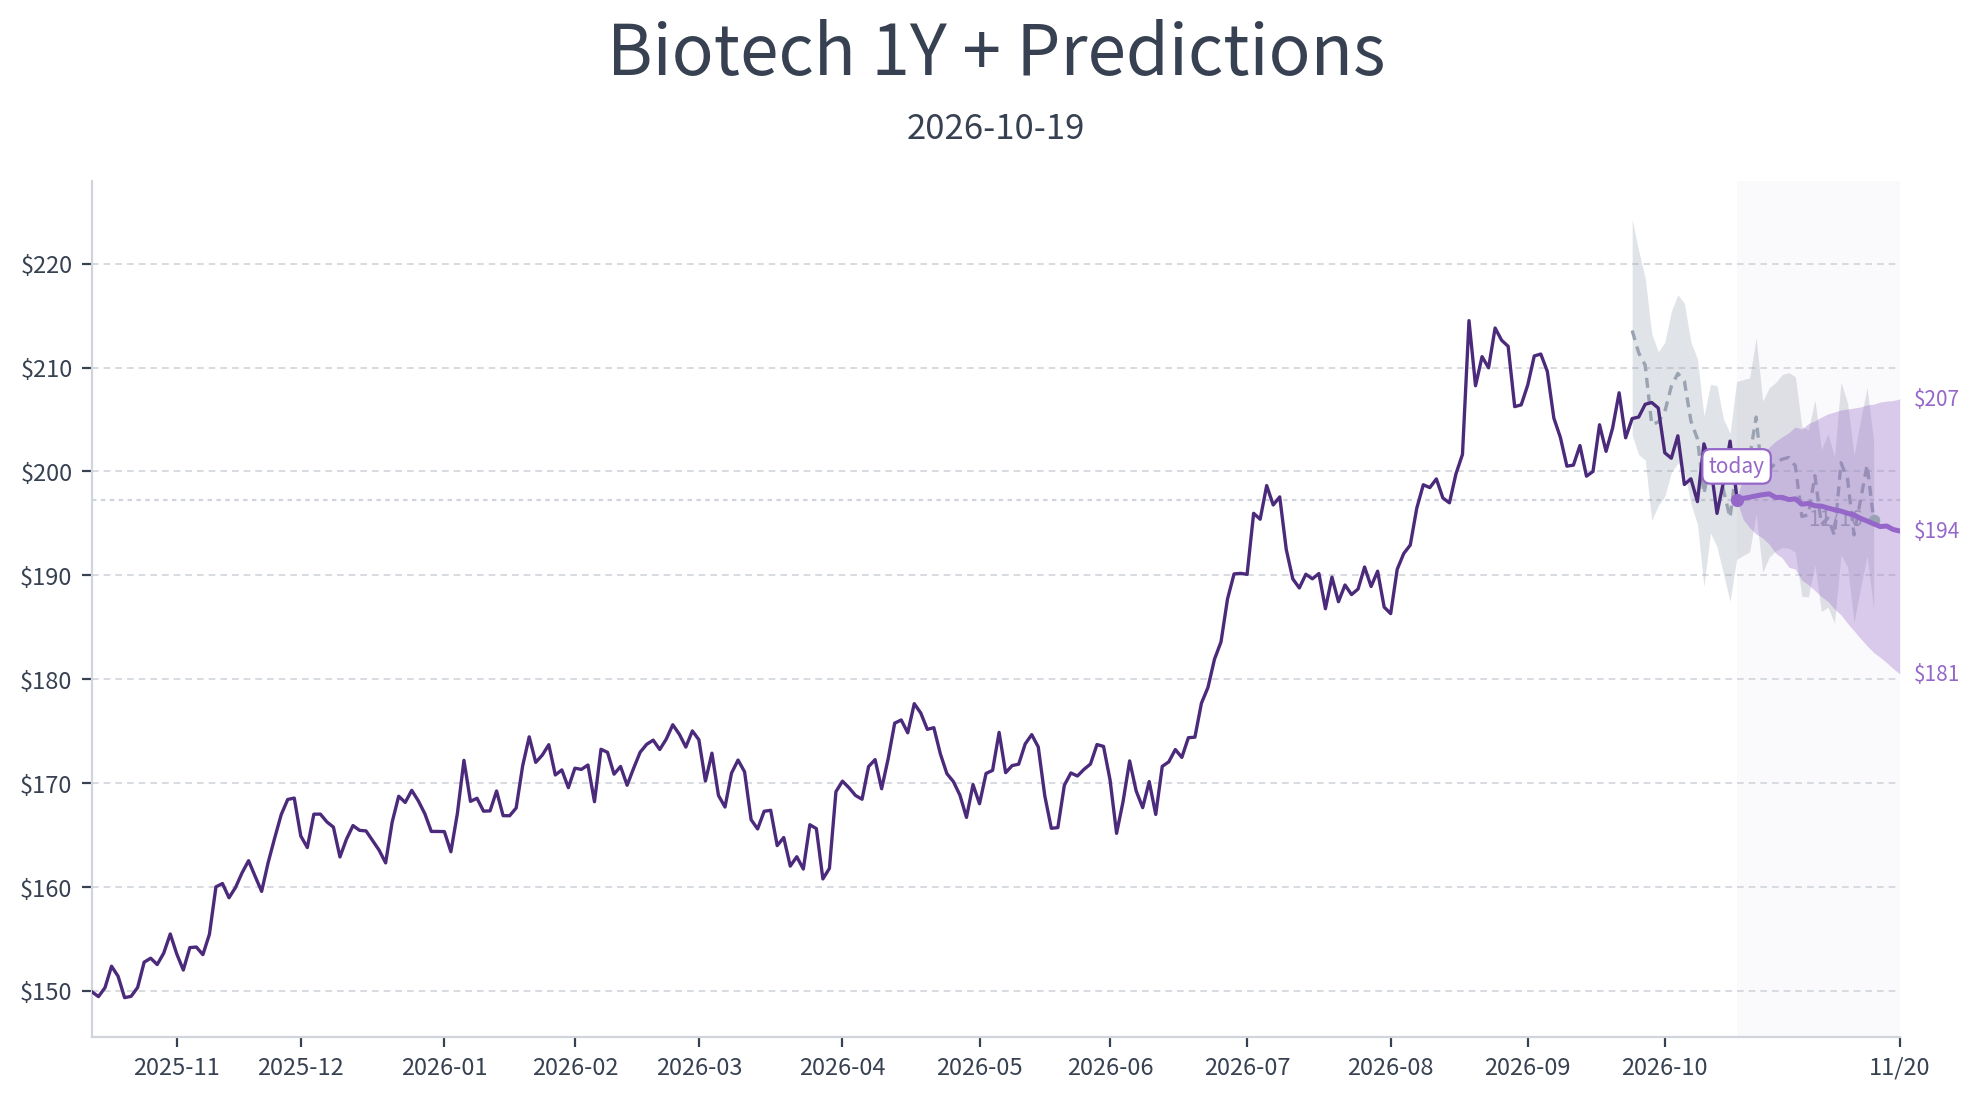
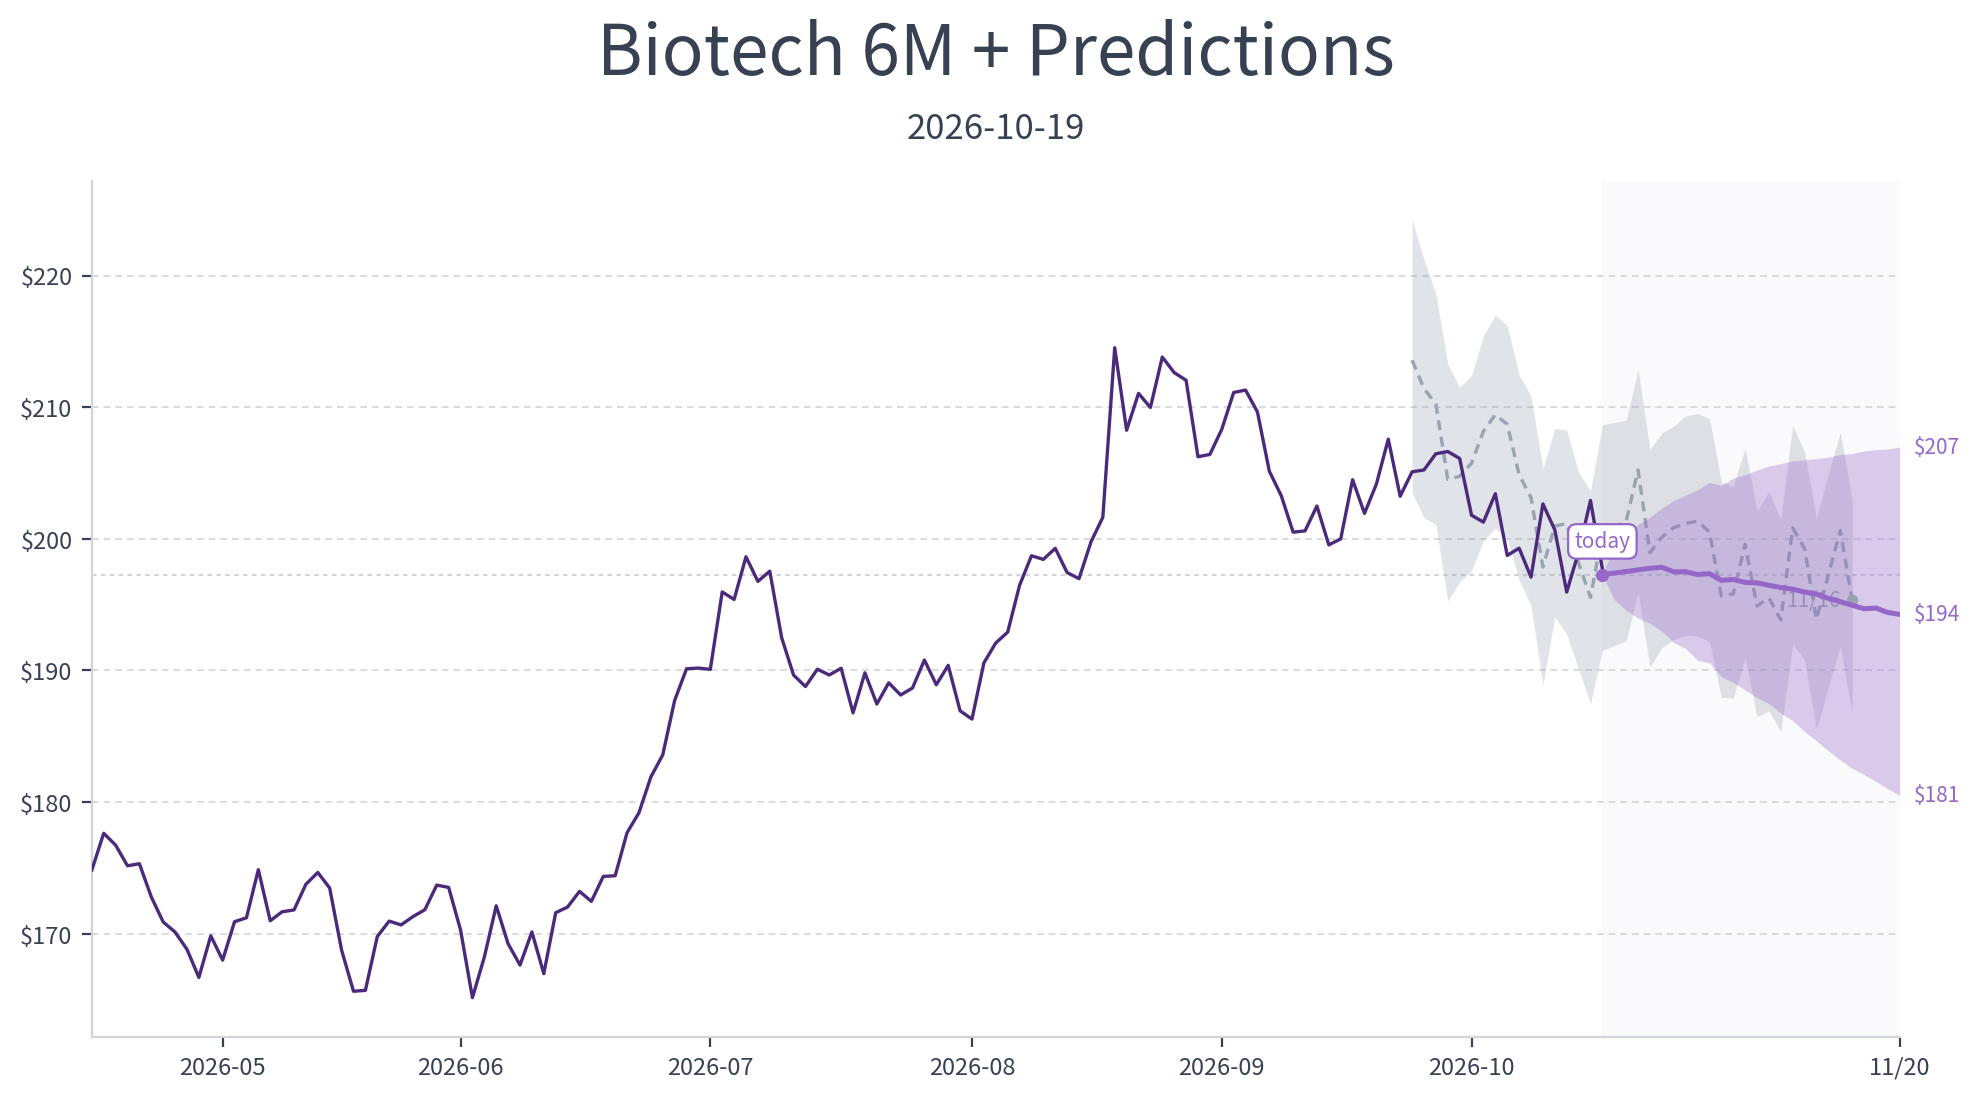
6M + Predictions 그림으로 바꾼다

diff --git a/app.html b/app.html
@@ -128,8 +128,8 @@
     fitHeight();
   }
 
-  // 요약의 Outlook 그림 자리에 Outlook, 1Y + Predictions, Montecarlo 순서로 넘기는 묶음을 둔다.
-  // Montecarlo는 원래 다가오는 이벤트 절에 있으므로 그 자리에서는 뺀다. 1Y + Predictions가 없는 리포트는 두 장을 넘긴다.
+  // 요약의 Outlook 그림 자리에 Outlook, 6M + Predictions, Montecarlo 순서로 넘기는 묶음을 둔다.
+  // Montecarlo는 원래 다가오는 이벤트 절에 있으므로 그 자리에서는 뺀다. 6M + Predictions가 없는 리포트는 두 장을 넘긴다.
   function figures() {
     const pick = (name) => [...report.querySelectorAll("img")].find((img) => img.getAttribute("src").includes(`/${name}-`));
     const chart = pick("chart"), tree = pick("tree");
